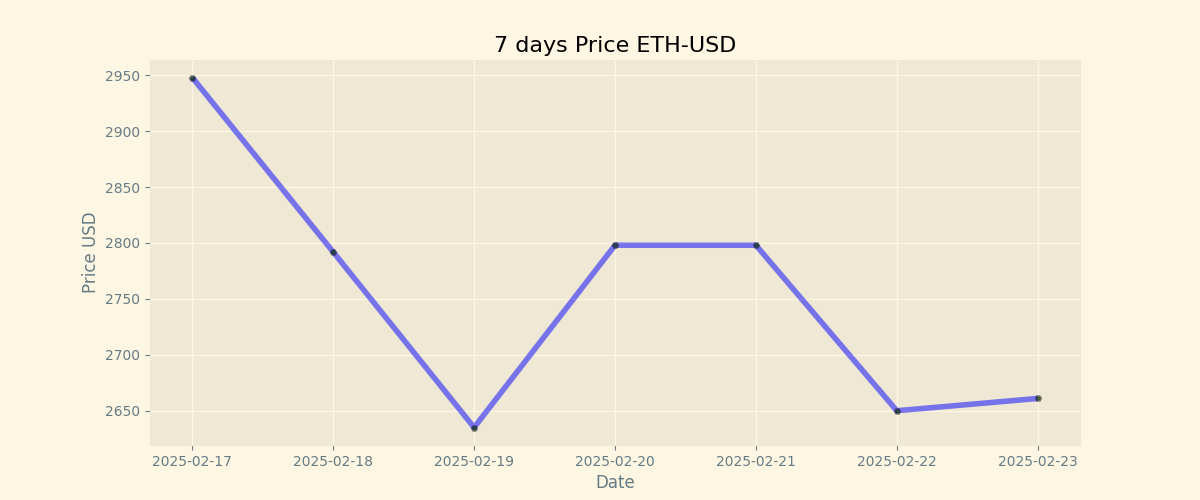
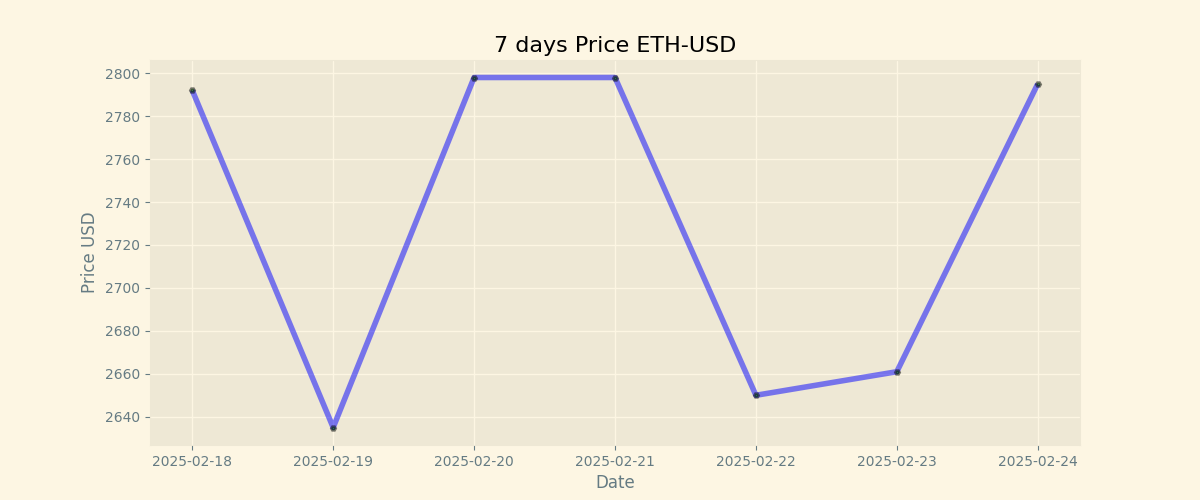
Duty Updates 2025-02-24

diff --git a/README.md b/README.md
@@ -10,7 +10,7 @@
 | Currency | Price           |
 | -------- | --------------- |
 | **BTC**  | **$ 97491.11** |
-| **ETH**  | **$ 2660.98** |
+| **ETH**  | **$ 2795.0** |
 
 ## BTC chart
 
